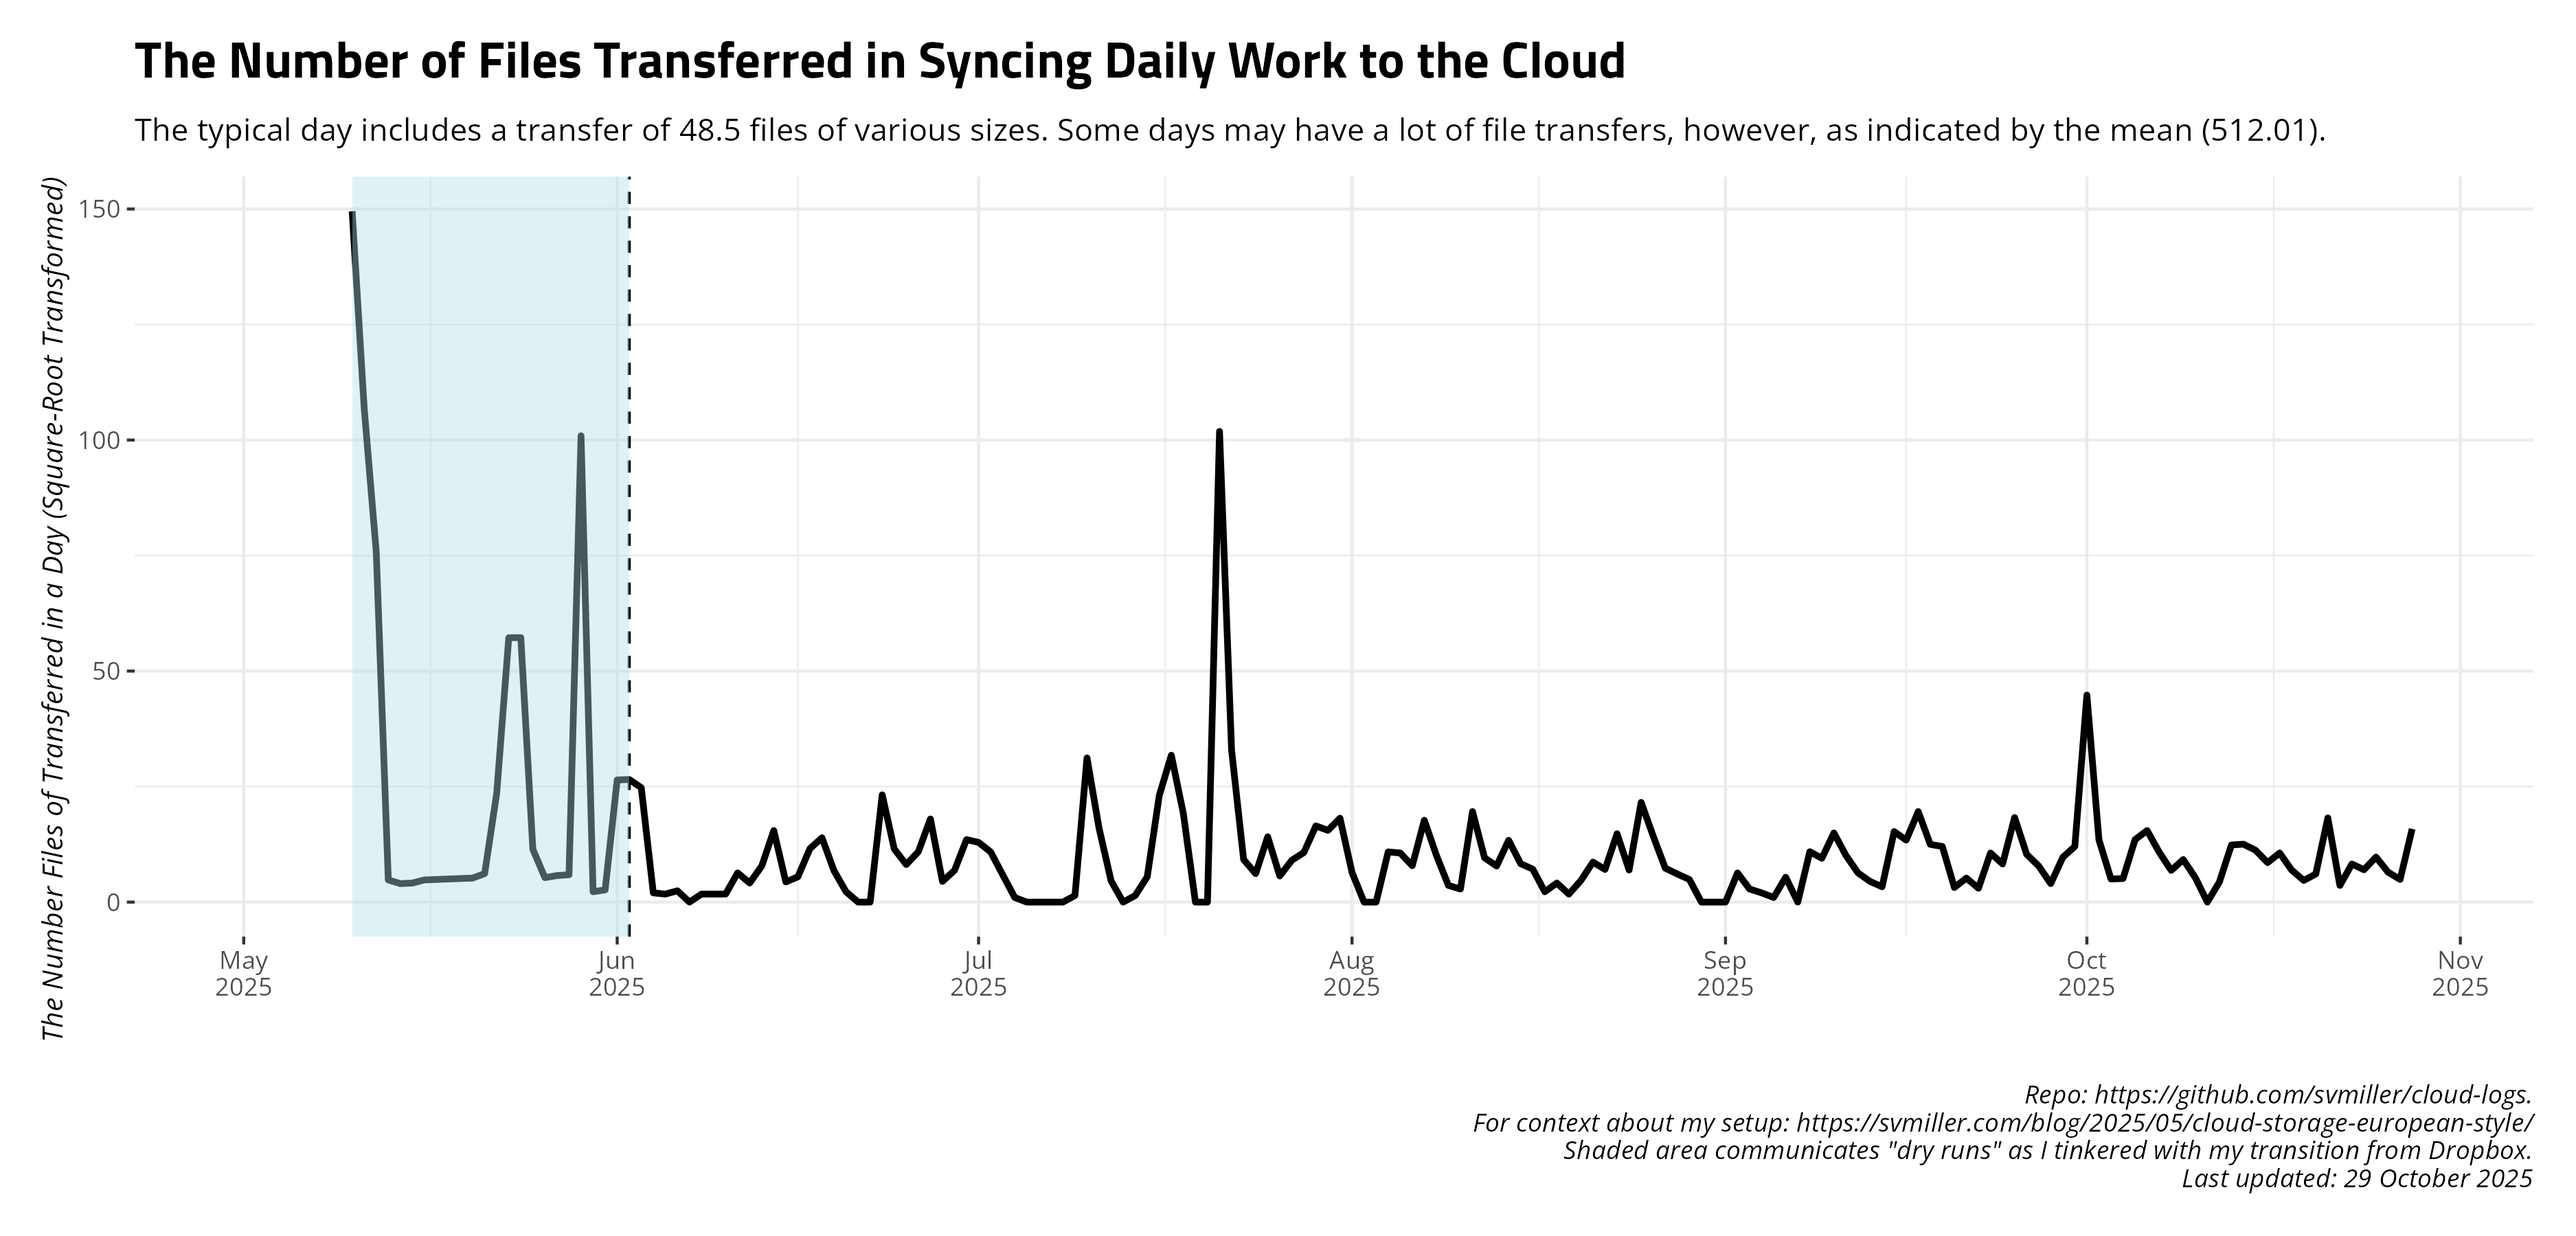
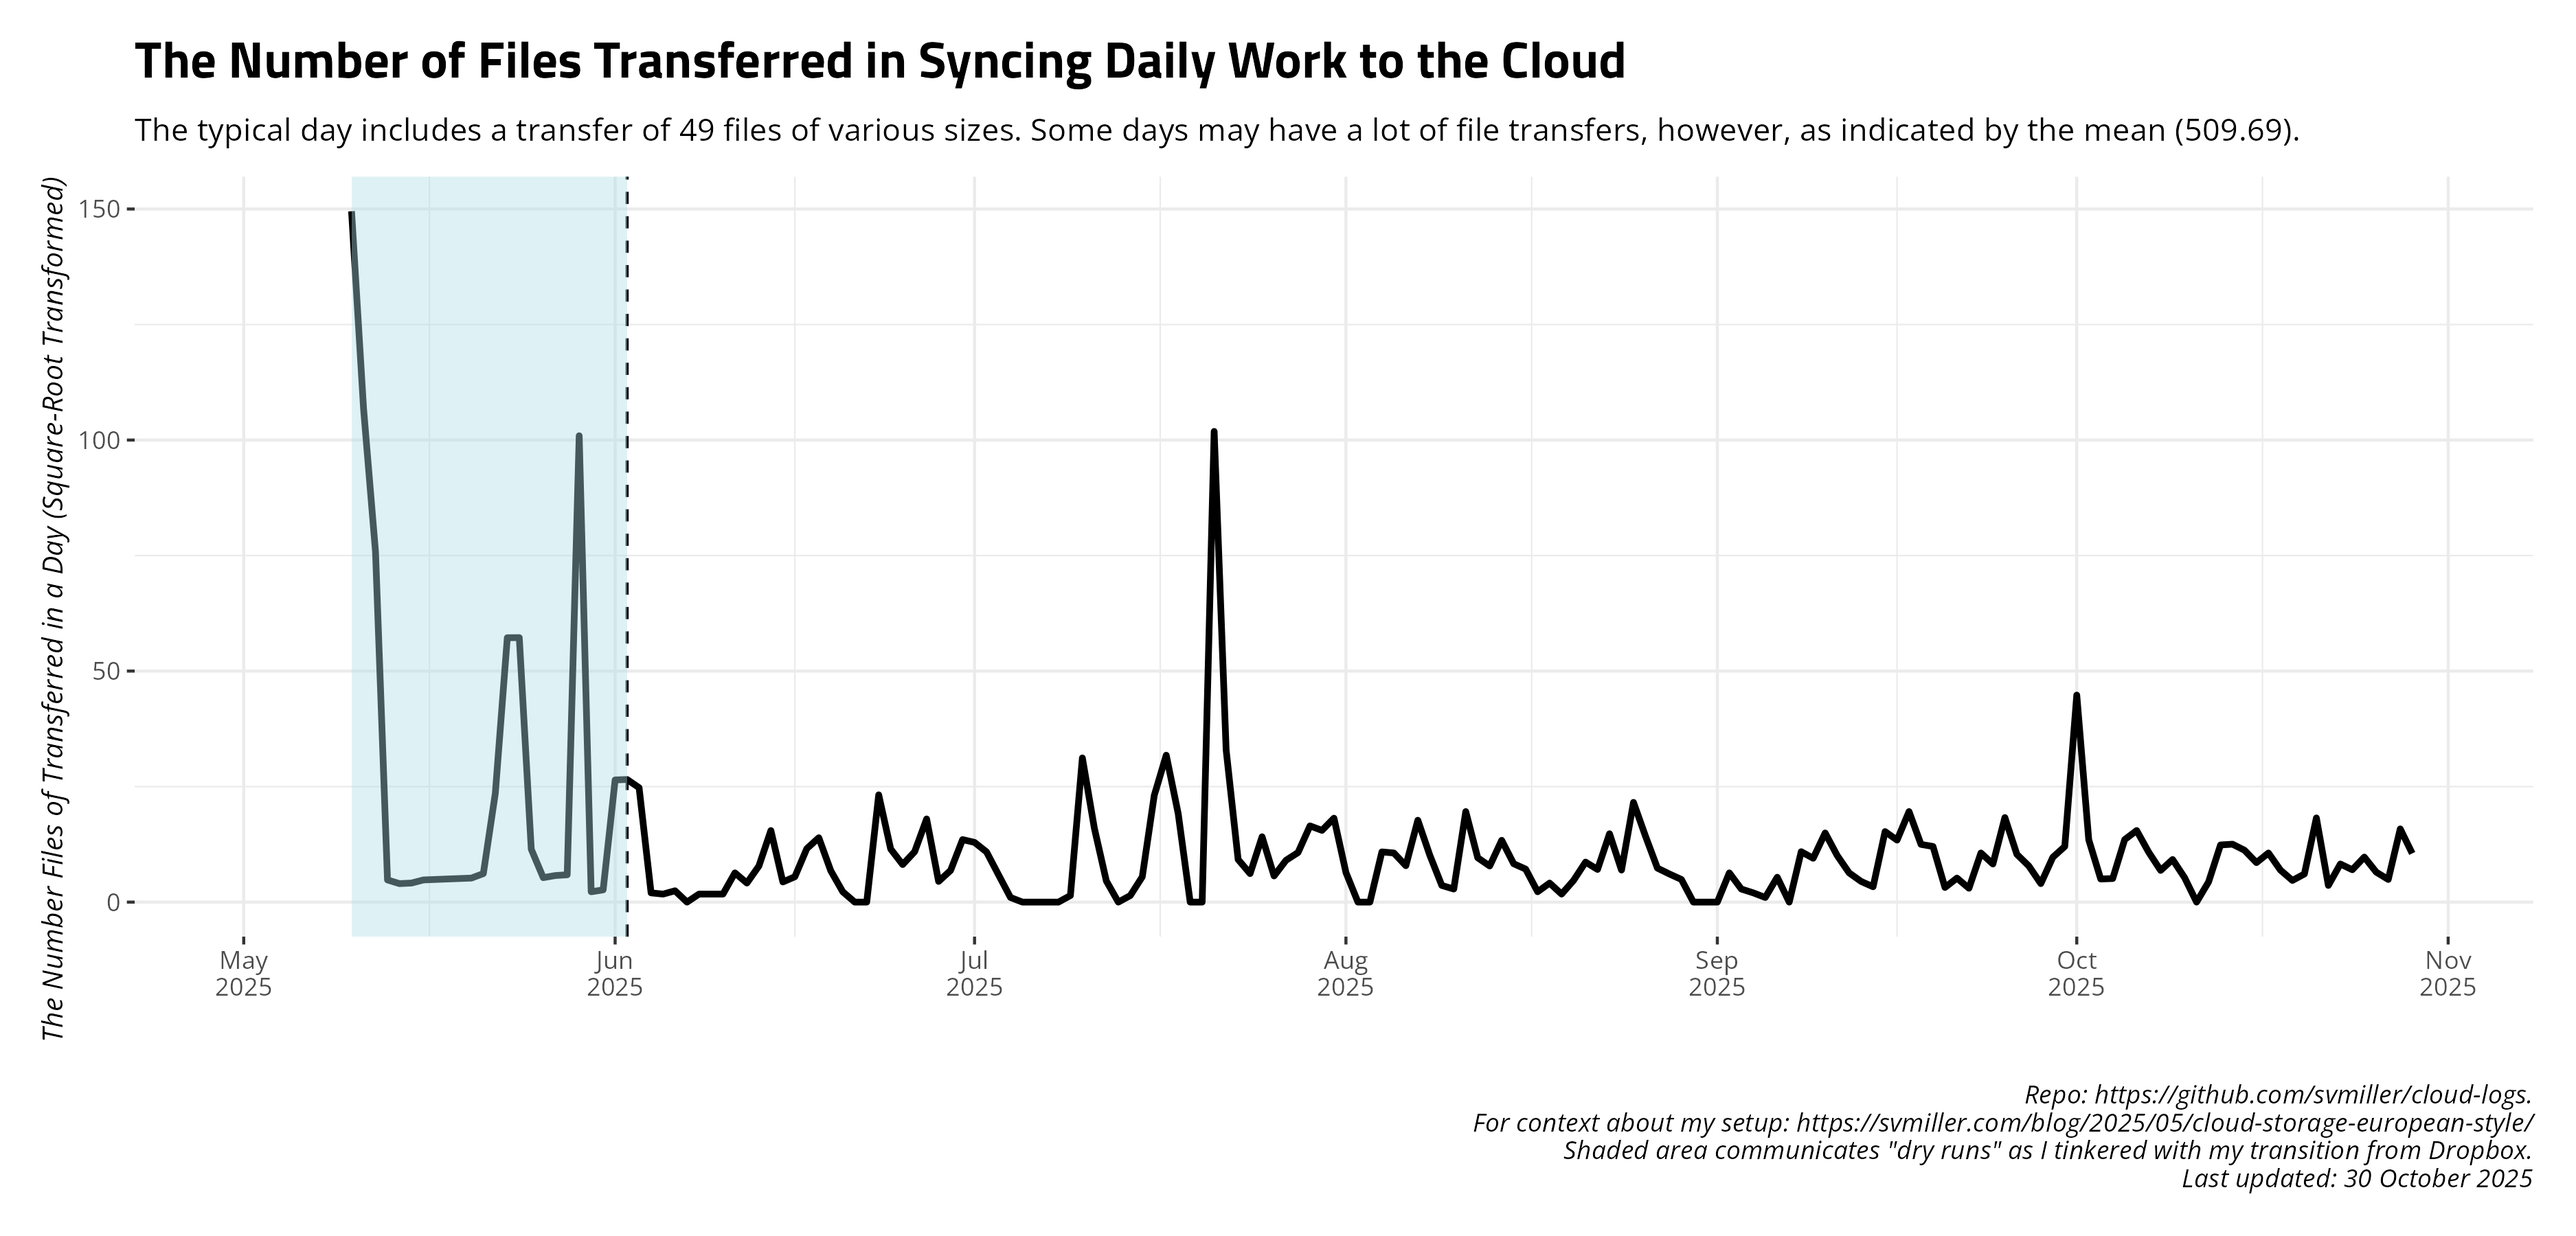
Date: 2025-10-30 09:00:16. Hi mom!

diff --git a/README.md b/README.md
@@ -27,17 +27,17 @@ and uploads to Github.
     #> # A tibble: 14 × 4
     #>    date       ftransfer stransfer   elapsed
     #>    <date>         <dbl> <chr>       <chr>  
-    #>  1 2025-10-15       126 2.207 MiB   4m9.6s 
-    #>  2 2025-10-16        73 3.849 MiB   4m10.2s
-    #>  3 2025-10-17       113 3.125 MiB   4m52.3s
-    #>  4 2025-10-18        48 633.468 KiB 4m30.2s
-    #>  5 2025-10-19        22 67.056 KiB  4m43.2s
-    #>  6 2025-10-20        37 397.260 KiB 4m53.9s
-    #>  7 2025-10-21       332 55.643 MiB  4m15.2s
-    #>  8 2025-10-22        13 1.903 MiB   4m51.0s
-    #>  9 2025-10-23        68 2.442 MiB   4m13.7s
-    #> 10 2025-10-24        49 714.508 KiB 4m48.5s
-    #> 11 2025-10-25        95 6.259 MiB   4m40.1s
-    #> 12 2025-10-26        42 393.283 KiB 4m0.4s 
-    #> 13 2025-10-27        24 143.556 KiB 4m39.8s
-    #> 14 2025-10-28       251 13.888 MiB  4m11.7s
+    #>  1 2025-10-16        73 3.849 MiB   4m10.2s
+    #>  2 2025-10-17       113 3.125 MiB   4m52.3s
+    #>  3 2025-10-18        48 633.468 KiB 4m30.2s
+    #>  4 2025-10-19        22 67.056 KiB  4m43.2s
+    #>  5 2025-10-20        37 397.260 KiB 4m53.9s
+    #>  6 2025-10-21       332 55.643 MiB  4m15.2s
+    #>  7 2025-10-22        13 1.903 MiB   4m51.0s
+    #>  8 2025-10-23        68 2.442 MiB   4m13.7s
+    #>  9 2025-10-24        49 714.508 KiB 4m48.5s
+    #> 10 2025-10-25        95 6.259 MiB   4m40.1s
+    #> 11 2025-10-26        42 393.283 KiB 4m0.4s 
+    #> 12 2025-10-27        24 143.556 KiB 4m39.8s
+    #> 13 2025-10-28       251 13.888 MiB  4m11.7s
+    #> 14 2025-10-29       111 8.451 MiB   4m24.0s
